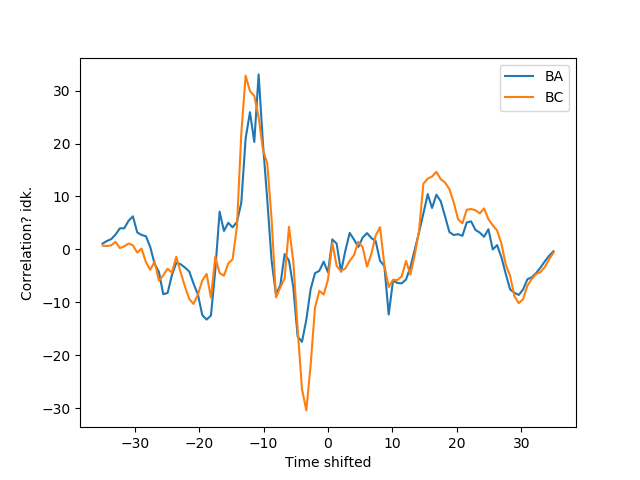
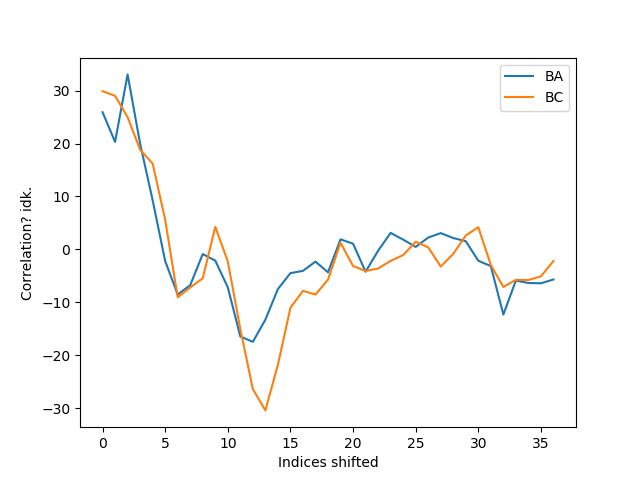
Changed figures

diff --git a/SWARM/wave_inspector.py b/SWARM/wave_inspector.py
@@ -464,14 +464,13 @@ class WaveInspect(SWARMprocess):
         plt.show()
 
         testA = testA[:int(len(testA)/2)]; testC = testC[:int(len(testC)/2)]
-        corr_BA = np.correlate(testB, testA, "full")
-        corr_BC = np.correlate(testB, testC, "full")
-        T = len(testA/2)
-        times = np.linspace(-T, T, len(corr_BA))
+        corr_BA = np.correlate(testB, testA, "valid")
+        corr_BC = np.correlate(testB, testC, "valid")
+        times = np.arange(len(corr_BA))
         plt.plot(times, corr_BA)
         plt.plot(times, corr_BC)
         plt.legend(["BA", "BC"])
-        plt.xlabel("Time shifted")
+        plt.xlabel("Indices shifted")
         plt.ylabel("Correlation? idk.")
         plt.savefig(self.figpath + "Correlationtest_png")
         plt.show()
